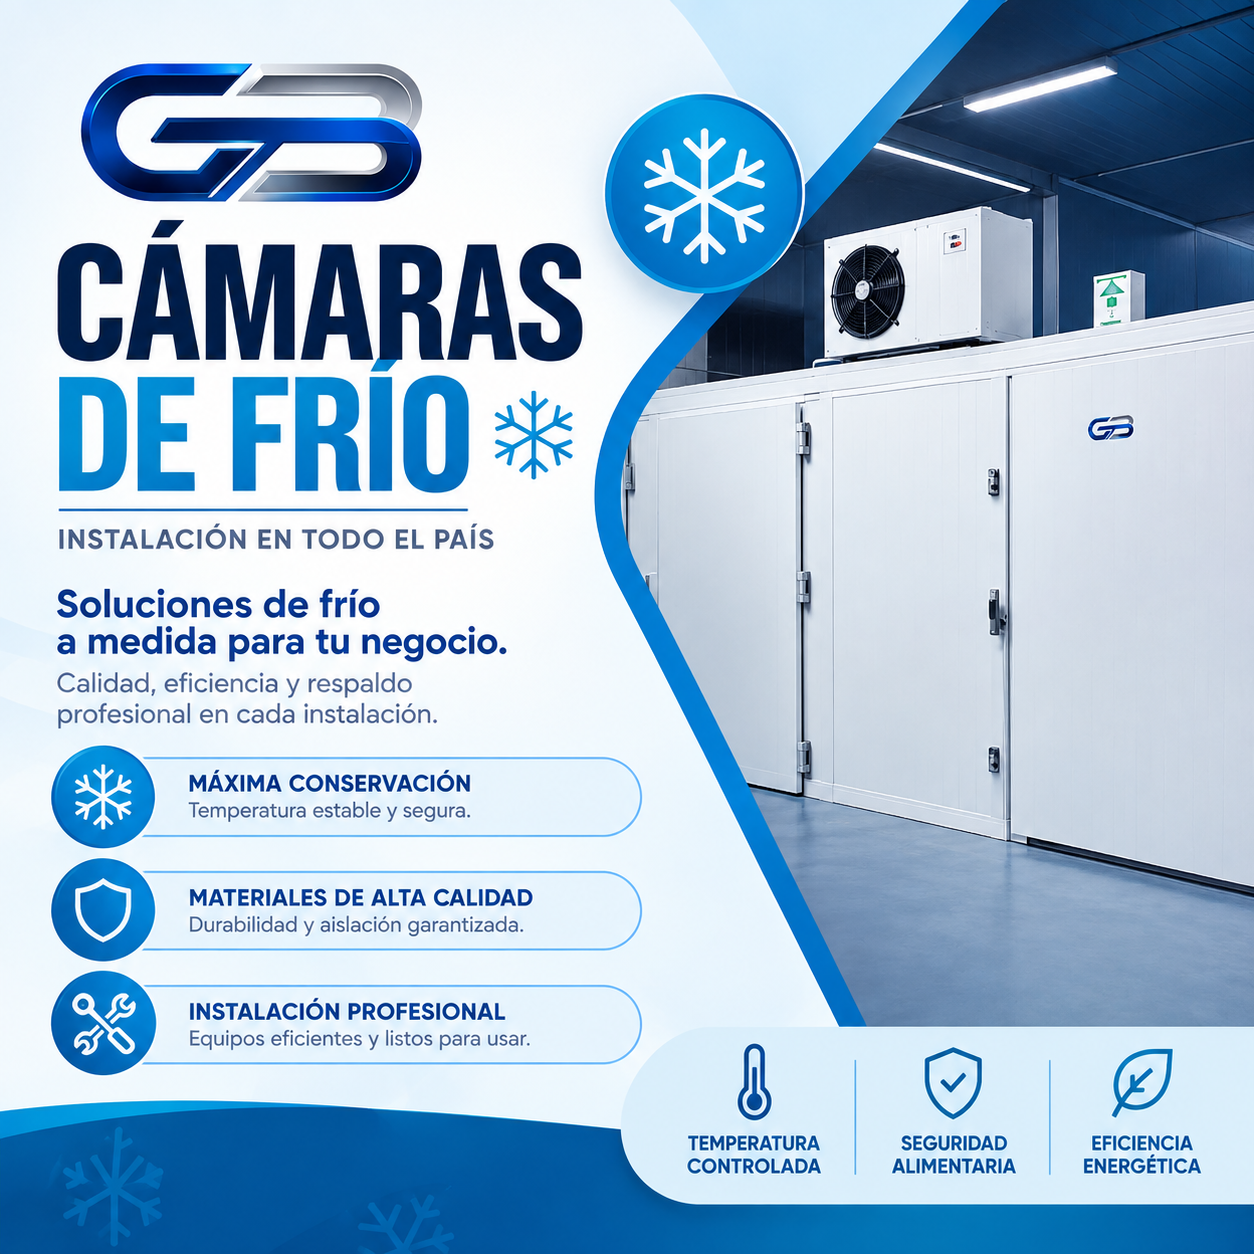
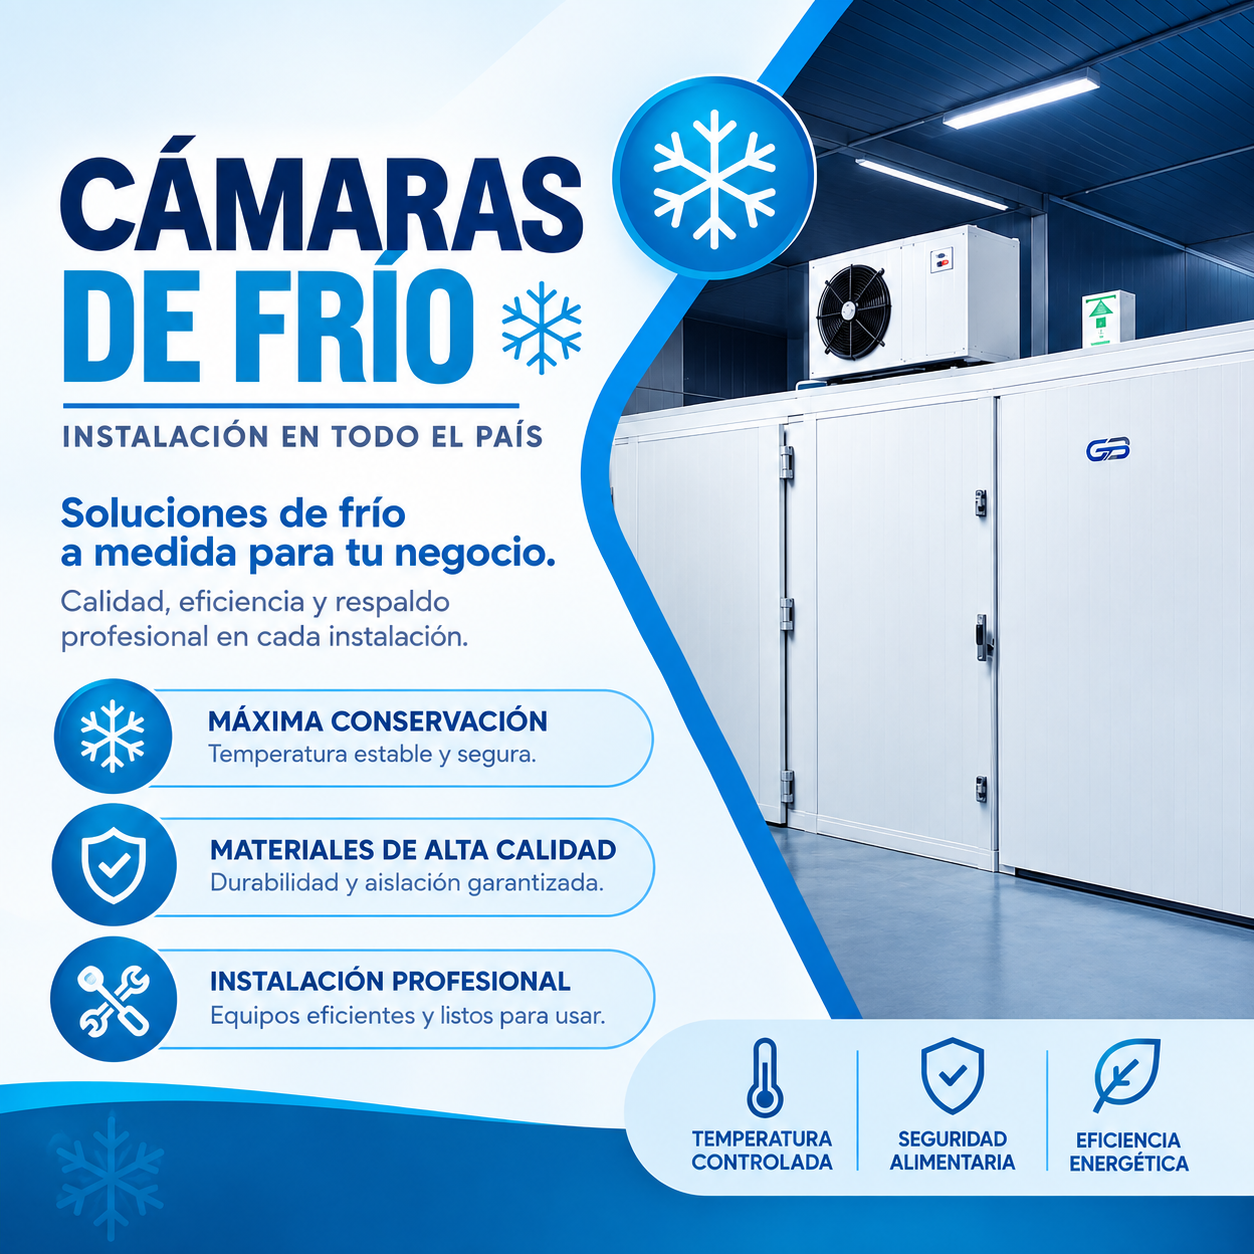
correccion mostrar imagen
correccion mostrar imagen

diff --git a/index.html b/index.html
@@ -790,133 +790,128 @@
           <p class="text-slate-400 text-sm mt-2">Fotografías reales de obras en marcha, equipamiento modular y montajes de precisión en CABA y alrededores.</p>
         </div>
 
-        <div class="grid md:grid-cols-2 lg:grid-cols-4 gap-6">
-          <!-- Card 1 -->
+        <!-- Organic Bento Box Grid -->
+        <div class="grid grid-cols-1 md:grid-cols-3 gap-6 auto-rows-[280px]">
+          
+          <!-- Card 1 (Large - Spans 2 columns) -->
           <div
-            class="bg-slate-900 border border-slate-800 rounded-2xl overflow-hidden shadow-lg hover:border-accent/50 transition-all flex flex-col justify-between group">
-            <div class="relative overflow-hidden h-60 sm:h-64">
+            class="md:col-span-2 bg-slate-900 border border-slate-800 rounded-3xl overflow-hidden shadow-2xl hover:border-accent/50 transition-all flex flex-col group relative">
+            <div class="absolute inset-0">
               <img src="data/img/camaradefrio2.png" alt="Cámara de Frío con Evaporador y Cortina de PVC - Frig Zone"
-                class="w-full h-full object-cover object-top group-hover:scale-105 transition-transform duration-500 cursor-pointer img-lightbox"
+                class="w-full h-full object-cover object-top group-hover:scale-105 transition-transform duration-700 cursor-pointer img-lightbox"
                 data-title="Cámaras de Frío a Medida - Paneles & Evaporadores">
-              <span
-                class="absolute top-3 left-3 bg-slate-950/85 backdrop-blur-md px-2.5 py-1 rounded-lg text-[10px] font-bold text-accent border border-slate-700">
+              <div class="absolute inset-0 bg-gradient-to-t from-slate-950 via-slate-950/40 to-transparent pointer-events-none"></div>
+            </div>
+            
+            <div class="absolute top-4 left-4 z-10">
+              <span class="bg-slate-950/80 backdrop-blur-md px-3 py-1.5 rounded-full text-[10px] font-bold text-accent border border-slate-700 shadow-lg">
                 Media & Baja Temp
               </span>
-              <div class="absolute inset-0 bg-slate-950/30 opacity-0 group-hover:opacity-100 transition-opacity flex items-center justify-center pointer-events-none">
-                <span class="px-3 py-1.5 rounded-full bg-slate-900/90 text-accent font-bold text-xs border border-accent/40 shadow-lg flex items-center gap-1.5">
-                  <i data-lucide="zoom-in" class="w-3.5 h-3.5"></i> Ampliar HD
-                </span>
-              </div>
             </div>
-            <div class="p-5 flex-1 flex flex-col justify-between">
-              <div>
-                <h4 class="text-sm font-bold text-white mb-2">Cámaras de Frío a Medida</h4>
-                <p class="text-slate-400 text-xs leading-relaxed">Paneles aislantes de alta densidad, cortinas térmicas de PVC y evaporadores suspendidos.</p>
-              </div>
-              <div
-                class="mt-4 pt-3 border-t border-slate-800/80 flex items-center justify-between text-[11px] text-slate-400">
-                <span>Norma IRAM</span>
-                <span class="text-accent font-semibold flex items-center gap-1 cursor-pointer">
+
+            <div class="absolute inset-0 bg-slate-950/20 opacity-0 group-hover:opacity-100 transition-opacity flex items-center justify-center pointer-events-none z-10">
+              <span class="px-4 py-2 rounded-full bg-slate-900/90 text-accent font-bold text-xs border border-accent/40 shadow-2xl flex items-center gap-2 transform translate-y-4 group-hover:translate-y-0 transition-all">
+                <i data-lucide="zoom-in" class="w-4 h-4"></i> Ampliar HD
+              </span>
+            </div>
+            
+            <div class="relative z-10 p-6 mt-auto">
+              <h4 class="text-xl font-bold text-white mb-2">Cámaras de Frío a Medida</h4>
+              <p class="text-slate-300 text-xs leading-relaxed max-w-md mb-4">Paneles aislantes de alta densidad, cortinas térmicas de PVC y evaporadores suspendidos de alto rendimiento.</p>
+              <div class="pt-4 border-t border-slate-700/60 flex items-center justify-between text-[11px] text-slate-400">
+                <span class="flex items-center gap-1.5"><i data-lucide="check-circle" class="w-3.5 h-3.5 text-emerald-400"></i> Norma IRAM</span>
+                <span class="text-accent font-semibold flex items-center gap-1 cursor-pointer hover:text-cyan-300">
                   <i data-lucide="maximize-2" class="w-3 h-3"></i> Detalle
                 </span>
               </div>
             </div>
           </div>
 
-          <!-- Card 2 -->
+          <!-- Card 2 (Tall - Spans 2 rows on desktop) -->
           <div
-            class="bg-slate-900 border border-slate-800 rounded-2xl overflow-hidden shadow-lg hover:border-accent/50 transition-all flex flex-col justify-between group">
-            <div class="relative overflow-hidden h-60 sm:h-64">
+            class="md:col-span-1 md:row-span-2 bg-slate-900 border border-slate-800 rounded-3xl overflow-hidden shadow-lg hover:border-accent/50 transition-all flex flex-col group relative">
+            <div class="absolute inset-0">
               <img src="data/img/camarasdefrio.png" alt="Soluciones en Refrigeración de Cámaras - Frig Zone"
-                class="w-full h-full object-cover object-top group-hover:scale-105 transition-transform duration-500 cursor-pointer img-lightbox"
+                class="w-full h-full object-cover object-center group-hover:scale-105 transition-transform duration-700 cursor-pointer img-lightbox"
                 data-title="Cámaras Frigoríficas - Seguridad Alimentaria & Eficiencia">
-              <span
-                class="absolute top-3 left-3 bg-slate-950/85 backdrop-blur-md px-2.5 py-1 rounded-lg text-[10px] font-bold text-emerald-400 border border-slate-700">
+              <div class="absolute inset-0 bg-gradient-to-t from-slate-950 via-slate-950/30 to-transparent pointer-events-none"></div>
+            </div>
+            
+            <div class="absolute top-4 left-4 z-10">
+              <span class="bg-slate-950/80 backdrop-blur-md px-3 py-1.5 rounded-full text-[10px] font-bold text-emerald-400 border border-slate-700 shadow-lg">
                 Seguridad Alimentaria
               </span>
-              <div class="absolute inset-0 bg-slate-950/30 opacity-0 group-hover:opacity-100 transition-opacity flex items-center justify-center pointer-events-none">
-                <span class="px-3 py-1.5 rounded-full bg-slate-900/90 text-accent font-bold text-xs border border-accent/40 shadow-lg flex items-center gap-1.5">
-                  <i data-lucide="zoom-in" class="w-3.5 h-3.5"></i> Ampliar HD
-                </span>
-              </div>
             </div>
-            <div class="p-5 flex-1 flex flex-col justify-between">
-              <div>
-                <h4 class="text-sm font-bold text-white mb-2">Conservación de Productos</h4>
-                <p class="text-slate-400 text-xs leading-relaxed">Temperaturas estables para carnicerías, lácteos, congelados y depósitos comerciales.</p>
-              </div>
-              <div
-                class="mt-4 pt-3 border-t border-slate-800/80 flex items-center justify-between text-[11px] text-slate-400">
-                <span>Eficiencia A+</span>
-                <span class="text-accent font-semibold flex items-center gap-1 cursor-pointer">
-                  <i data-lucide="maximize-2" class="w-3 h-3"></i> Detalle
-                </span>
+
+            <div class="absolute inset-0 bg-slate-950/20 opacity-0 group-hover:opacity-100 transition-opacity flex items-center justify-center pointer-events-none z-10">
+              <span class="px-4 py-2 rounded-full bg-slate-900/90 text-accent font-bold text-xs border border-accent/40 shadow-2xl flex items-center gap-2 transform translate-y-4 group-hover:translate-y-0 transition-all">
+                <i data-lucide="zoom-in" class="w-4 h-4"></i> Ampliar
+              </span>
+            </div>
+            
+            <div class="relative z-10 p-6 mt-auto">
+              <h4 class="text-lg font-bold text-white mb-2">Conservación de Productos</h4>
+              <p class="text-slate-300 text-xs leading-relaxed mb-4">Temperaturas estables y rigurosas para carnicerías, lácteos, congelados y depósitos comerciales de alta exigencia.</p>
+              <div class="pt-4 border-t border-slate-700/60 flex items-center justify-between text-[11px] text-slate-400">
+                <span class="flex items-center gap-1.5"><i data-lucide="zap" class="w-3.5 h-3.5 text-amber-400"></i> Eficiencia A+</span>
               </div>
             </div>
           </div>
 
-          <!-- Card 3 -->
+          <!-- Card 3 (Normal square) -->
           <div
-            class="bg-slate-900 border border-slate-800 rounded-2xl overflow-hidden shadow-lg hover:border-accent/50 transition-all flex flex-col justify-between group">
-            <div class="relative overflow-hidden h-60 sm:h-64">
+            class="md:col-span-1 bg-slate-900 border border-slate-800 rounded-3xl overflow-hidden shadow-lg hover:border-accent/50 transition-all flex flex-col group relative">
+            <div class="absolute inset-0">
               <img src="data/img/refrigeracionindustrial.png"
                 alt="Refrigeración Industrial y Montaje Profesional - Frig Zone"
-                class="w-full h-full object-cover object-center group-hover:scale-105 transition-transform duration-500 cursor-pointer img-lightbox"
+                class="w-full h-full object-cover object-center group-hover:scale-105 transition-transform duration-700 cursor-pointer img-lightbox"
                 data-title="Sistemas de Refrigeración Industrial & Racks">
-              <span
-                class="absolute top-3 left-3 bg-slate-950/85 backdrop-blur-md px-2.5 py-1 rounded-lg text-[10px] font-bold text-amber-400 border border-slate-700">
+              <div class="absolute inset-0 bg-gradient-to-t from-slate-950 via-slate-950/40 to-transparent pointer-events-none"></div>
+            </div>
+            
+            <div class="absolute top-4 left-4 z-10">
+              <span class="bg-slate-950/80 backdrop-blur-md px-3 py-1.5 rounded-full text-[10px] font-bold text-amber-400 border border-slate-700 shadow-lg">
                 Montaje Industrial
               </span>
-              <div class="absolute inset-0 bg-slate-950/30 opacity-0 group-hover:opacity-100 transition-opacity flex items-center justify-center pointer-events-none">
-                <span class="px-3 py-1.5 rounded-full bg-slate-900/90 text-accent font-bold text-xs border border-accent/40 shadow-lg flex items-center gap-1.5">
-                  <i data-lucide="zoom-in" class="w-3.5 h-3.5"></i> Ampliar HD
-                </span>
-              </div>
             </div>
-            <div class="p-5 flex-1 flex flex-col justify-between">
-              <div>
-                <h4 class="text-sm font-bold text-white mb-2">Montaje Industrial</h4>
-                <p class="text-slate-400 text-xs leading-relaxed">Centrales de frío, prueba de estanqueidad con nitrógeno y vacío asistido.</p>
-              </div>
-              <div
-                class="mt-4 pt-3 border-t border-slate-800/80 flex items-center justify-between text-[11px] text-slate-400">
-                <span>Técnicos Certificados</span>
-                <span class="text-accent font-semibold flex items-center gap-1 cursor-pointer">
-                  <i data-lucide="maximize-2" class="w-3 h-3"></i> Detalle
-                </span>
-              </div>
+
+            <div class="absolute inset-0 bg-slate-950/20 opacity-0 group-hover:opacity-100 transition-opacity flex items-center justify-center pointer-events-none z-10">
+              <span class="px-3 py-1.5 rounded-full bg-slate-900/90 text-accent font-bold text-xs border border-accent/40 shadow-lg flex items-center gap-1.5 transform translate-y-2 group-hover:translate-y-0 transition-all">
+                <i data-lucide="zoom-in" class="w-3.5 h-3.5"></i> Ver Obra
+              </span>
+            </div>
+            
+            <div class="relative z-10 p-5 mt-auto">
+              <h4 class="text-sm font-bold text-white mb-1">Centrales de Frío</h4>
+              <p class="text-slate-300 text-xs leading-relaxed line-clamp-2">Prueba de estanqueidad con nitrógeno y vacío asistido.</p>
             </div>
           </div>
 
-          <!-- Card 4 -->
+          <!-- Card 4 (Normal square) -->
           <div
-            class="bg-slate-900 border border-slate-800 rounded-2xl overflow-hidden shadow-lg hover:border-accent/50 transition-all flex flex-col justify-between group">
-            <div class="relative overflow-hidden h-60 sm:h-64">
+            class="md:col-span-1 bg-slate-900 border border-slate-800 rounded-3xl overflow-hidden shadow-lg hover:border-accent/50 transition-all flex flex-col group relative">
+            <div class="absolute inset-0">
               <img src="data/img/camaradefrioistalaciontodopais.png" alt="Instalación de Cámaras en Todo el País - Frig Zone"
-                class="w-full h-full object-cover object-top group-hover:scale-105 transition-transform duration-500 cursor-pointer img-lightbox"
+                class="w-full h-full object-cover object-top group-hover:scale-105 transition-transform duration-700 cursor-pointer img-lightbox"
                 data-title="Montaje y Equipamiento de Cámaras Frigoríficas">
-              <span
-                class="absolute top-3 left-3 bg-slate-950/85 backdrop-blur-md px-2.5 py-1 rounded-lg text-[10px] font-bold text-cyan-400 border border-slate-700">
-                Industria & Logística
-              </span>
-              <div class="absolute inset-0 bg-slate-950/30 opacity-0 group-hover:opacity-100 transition-opacity flex items-center justify-center pointer-events-none">
-                <span class="px-3 py-1.5 rounded-full bg-slate-900/90 text-accent font-bold text-xs border border-accent/40 shadow-lg flex items-center gap-1.5">
-                  <i data-lucide="zoom-in" class="w-3.5 h-3.5"></i> Ampliar HD
-                </span>
-              </div>
+              <div class="absolute inset-0 bg-gradient-to-t from-slate-950 via-slate-950/40 to-transparent pointer-events-none"></div>
             </div>
-            <div class="p-5 flex-1 flex flex-col justify-between">
-              <div>
-                <h4 class="text-sm font-bold text-white mb-2">Depósitos & Logística</h4>
-                <p class="text-slate-400 text-xs leading-relaxed">Infraestructura a gran escala con unidades condensadoras remotas y automatismo.</p>
-              </div>
-              <div
-                class="mt-4 pt-3 border-t border-slate-800/80 flex items-center justify-between text-[11px] text-slate-400">
-                <span>Garantía Escrita</span>
-                <span class="text-accent font-semibold flex items-center gap-1 cursor-pointer">
-                  <i data-lucide="maximize-2" class="w-3 h-3"></i> Detalle
-                </span>
-              </div>
+            
+            <div class="absolute top-4 left-4 z-10">
+              <span class="bg-slate-950/80 backdrop-blur-md px-3 py-1.5 rounded-full text-[10px] font-bold text-cyan-400 border border-slate-700 shadow-lg">
+                Logística
+              </span>
+            </div>
+
+            <div class="absolute inset-0 bg-slate-950/20 opacity-0 group-hover:opacity-100 transition-opacity flex items-center justify-center pointer-events-none z-10">
+              <span class="px-3 py-1.5 rounded-full bg-slate-900/90 text-accent font-bold text-xs border border-accent/40 shadow-lg flex items-center gap-1.5 transform translate-y-2 group-hover:translate-y-0 transition-all">
+                <i data-lucide="zoom-in" class="w-3.5 h-3.5"></i> Ver Obra
+              </span>
+            </div>
+            
+            <div class="relative z-10 p-5 mt-auto">
+              <h4 class="text-sm font-bold text-white mb-1">Depósitos Gran Escala</h4>
+              <p class="text-slate-300 text-xs leading-relaxed line-clamp-2">Infraestructura comercial con unidades remotas.</p>
             </div>
           </div>
 
